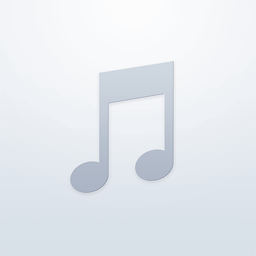
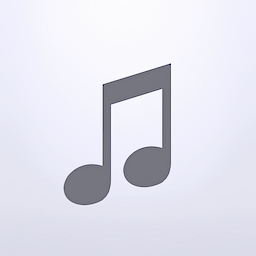
1.4.1
- CHANGED KEYBOARD SHORTCUTS
- New album art placeholder, changed button hover color accordingly
- Fixed next() without Randomize (still used playlist id's)
- Cleared up keyboard shortcuts in tooltips

Changed region(s): [[0.25, 0.2188, 0.6875, 0.8125]]

diff --git a/music.js b/music.js
@@ -246,8 +246,12 @@ function playlistElement(s) {
 	li.ondragover = function (e) { allowDrop(e) }
 	li.ondragend = function() { endDrag() }
 	li.ondrop = function(e) { dropSong(e) };
-	li.textContent = getSong(s.path);
-	li.title = getFolder(s.path);
+	if (s.path == 'last') {
+		li.id = 'last';
+	} else {
+		li.textContent = getSong(s.path);
+		li.title = getFolder(s.path);
+	}
 	return li;
 }
 
@@ -281,7 +285,7 @@ function endDrag() {
 		dom.clear.className = '';
 		dom.clear.textContent = 'Clear';
 	}
-	if (dom.playlist.hasChildNodes() && dom.playlist.lastChild.textContent == '') {
+	if (dom.playlist.hasChildNodes() && dom.playlist.lastChild.id == 'last') {
 		dom.playlist.removeChild(dom.playlist.lastChild);
 	}
 }
@@ -326,7 +330,7 @@ function removeItem(e) {
 }
 
 function getIndex(li) {
-	if (li.textContent == '')	// Temporary last item for dragging
+	if (li.id == 'last')	// Temporary last item for dragging
 		return cfg.playlist.length;
 	return Array.prototype.indexOf.call(li.parentNode.children, li);
 }
@@ -408,8 +412,15 @@ function next() {
 			}
 		}
 	} else if (cfg.index != -1)	{
-		var next = parseInt(cfg.playlist[cfg.index].id) + 1;
-		if (next < songs.length)
+		var path = cfg.playlist[cfg.index].path;
+		var next = -1;
+		for (var i = 0; i < songs.length; i++) {
+			if (songs[i].getAttribute('path') == path) {
+				next = i + 1;
+				break;
+			}
+		}
+		if (next != -1 && next < songs.length)
 			load(songs[next].id);
 		else
 			log('End of library');
@@ -650,25 +661,8 @@ document.addEventListener('keydown', function(e) {
 	} else if (dom.filter == document.activeElement) return false;
 
 	switch (e.which) {
-		case 32:	// space
-			e.preventDefault();
-			playPause();
-			return;
-		case 48:	// 0
-			stop();
-			return;
-		case 67:	// c
-			if (!cfg.locked) clearPlaylist();
-			return;
 		case 69:	// e
 			dom.enqueue.click();
-			return;
-		case 70:	// f
-			e.preventDefault();
-			dom.filter.focus();
-			return;
-		case 76:	// l
-			dom.lock.click();
 			return;
 		case 82:	// r
 			dom.random.click();
@@ -676,21 +670,39 @@ document.addEventListener('keydown', function(e) {
 		case 83:	// s
 			dom.share.click();
 			return;
+		case 76:	// l
+			dom.lock.click();
+			return;
+		case 67:	// c
+			if (!cfg.locked) clearPlaylist();
+			return;
+		case 70:	// f
+			e.preventDefault();
+			dom.filter.focus();
+			return;
 		case 61:	// = Firefox
 		case 187:	// =
 			e.preventDefault();
-			next();
+			audio.currentTime += 5;
 			return;
 		case 173:	// - Firefox
 		case 189:	// -
 			e.preventDefault();
-			previous();
-			return;
-		case 219:	// [
 			audio.currentTime -= 5;
 			return;
+		case 79:	// o
+			stop();
+			return;
+		case 80:	// p
+		case 32:	// space
+			e.preventDefault();
+			playPause();
+			return;
+		case 219:	// [
+			previous();
+			return;
 		case 221:	// ]
-			audio.currentTime += 5;
+			next();
 			return;
 	}
 	return false;

diff --git a/music.htm b/music.htm
@@ -16,19 +16,19 @@
 			<div id="song" class="dim" onclick="setFilter(event)">Track Title</div>
 			<div id="time" class="dim">00:00</div>
 			<div id="controls">
-				<button id="stop" title="Stop playback (0)" onclick="stop()"/>
-				<button id="playpause" title="Play or pause (space)" onclick="playPause()"/>
-				<button id="previous" title="Play previous (-)" onclick="previous()"/>
-				<button id="next" title="Play next (=)" onclick="next()"/>
+				<button id="stop" title="Stop playback ( o )" onclick="stop()"/>
+				<button id="playpause" title="Play or pause ( p, space )" onclick="playPause()"/>
+				<button id="previous" title="Play previous ( [ )" onclick="previous()"/>
+				<button id="next" title="Play next ( ] )" onclick="next()"/>
 				<audio id="audio">HTML5 not supported</audio>
 			</div>
 		</div>
 	</div>
 	<div id="options">
-		<button id="enqueue" title="Enqueue songs on click (e)" onclick="toggle(event)">Enqueue</button>
-		<button id="random" title="Play random songs after playlist items (r)" onclick="toggle(event)">Random</button>
-		<button id="share" title="Share or download current song or folder (s)" onclick="toggle(event)">Share</button>
-		<button id="lock" title="Lock playlist and playback controls (l)" onclick="toggleLock()">Lock</button>
+		<button id="enqueue" title="Enqueue songs on click ( e )" onclick="toggle(event)">Enqueue</button>
+		<button id="random" title="Play random songs after playlist items ( r )" onclick="toggle(event)">Random</button>
+		<button id="share" title="Share or download current song or folder ( s )" onclick="toggle(event)">Share</button>
+		<button id="lock" title="Lock playlist and playback controls ( l )" onclick="toggleLock()">Lock</button>
 		<div id="shares" class="hide">
 			<div class="folder sharediv">
 				<input id="folderuri" onclick="this.select()" readonly>
@@ -49,15 +49,15 @@
 	</div>	
 	<div id="playlistdiv">
 		<div>
-			<button id="clear" title="Clear the playlist (c)" onclick="clearPlaylist()" ondragover="allowDrop(event)" ondrop="removeItem(event)">Clear</button>
+			<button id="clear" title="Clear the playlist ( c )" onclick="clearPlaylist()" ondragover="allowDrop(event)" ondrop="removeItem(event)">Clear</button>
 			<div id="playlist" onmouseover="onplaylist=true" onmouseout="onplaylist=false"></div>
 		</div>
 	</div>
 	<div id="library">
 		<div id="filterdiv">
-			<input id="filter" title="Filter library (f)" placeholder="Filter..." onchange="filter()"/>
-			<button id="setfilter" title="Apply filter (enter)"/>
-			<button id="clearfilter" title="Clear filter (esc)" onclick="clearFilter()"/>
+			<input id="filter" title="Filter library ( f )" placeholder="Filter..." onchange="filter()"/>
+			<button id="setfilter" title="Apply filter ( enter )"/>
+			<button id="clearfilter" title="Clear filter ( esc )" onclick="clearFilter()"/>
 		</div>
 		<div id="tree"></div>
 	</div>

diff --git a/music.css b/music.css
@@ -38,7 +38,7 @@ button {
 	border-radius: 3px;
 }
 	button:hover {
-		background: #e7ecf1;
+		background: #e9e9f6;
 		cursor: pointer;
 	}
 	button:active, button:focus { outline: none }

diff --git a/README.md b/README.md
@@ -24,12 +24,12 @@ An elegant HTML5 web folder player for parties and/or private music collections.
 ## List of hotkeys
 Hotkey | Command
 :---: |---
-0 | Stop playback (time to 0:00)
-Space | Play/pause
-\- | Play previous
-\+ | Play next
-\[ | Jump back 5s
-\] | Jump forward 5s
+O | Stop playback (time to 0:00)
+P or Space | Play/pause
+\[ | Play previous
+\] | Play next
+\- | Jump back 5s
+\+ | Jump forward 5s
 E | Toggle enqueue
 R | Toggle random
 S | Toggle share dialog
@@ -50,5 +50,6 @@ Esc | Reset library filter
 ## Credits
 - Parts of this little project are heavily based on the excellent [HTML5 Music Player](https://github.com/GM-Script-Writer-62850/HTML5-Music-Player) by [GM-Script-Writer-62850](https://github.com/GM-Script-Writer-62850)
 - The [Foundation icon font](https://zurb.com/playground/foundation-icon-fonts-3) is used
+- Album art placeholder is based on a [design by CmdRobot](http://fav.me/d7kpm65)
 
 All credits are due, as well as my sincere thanks!
